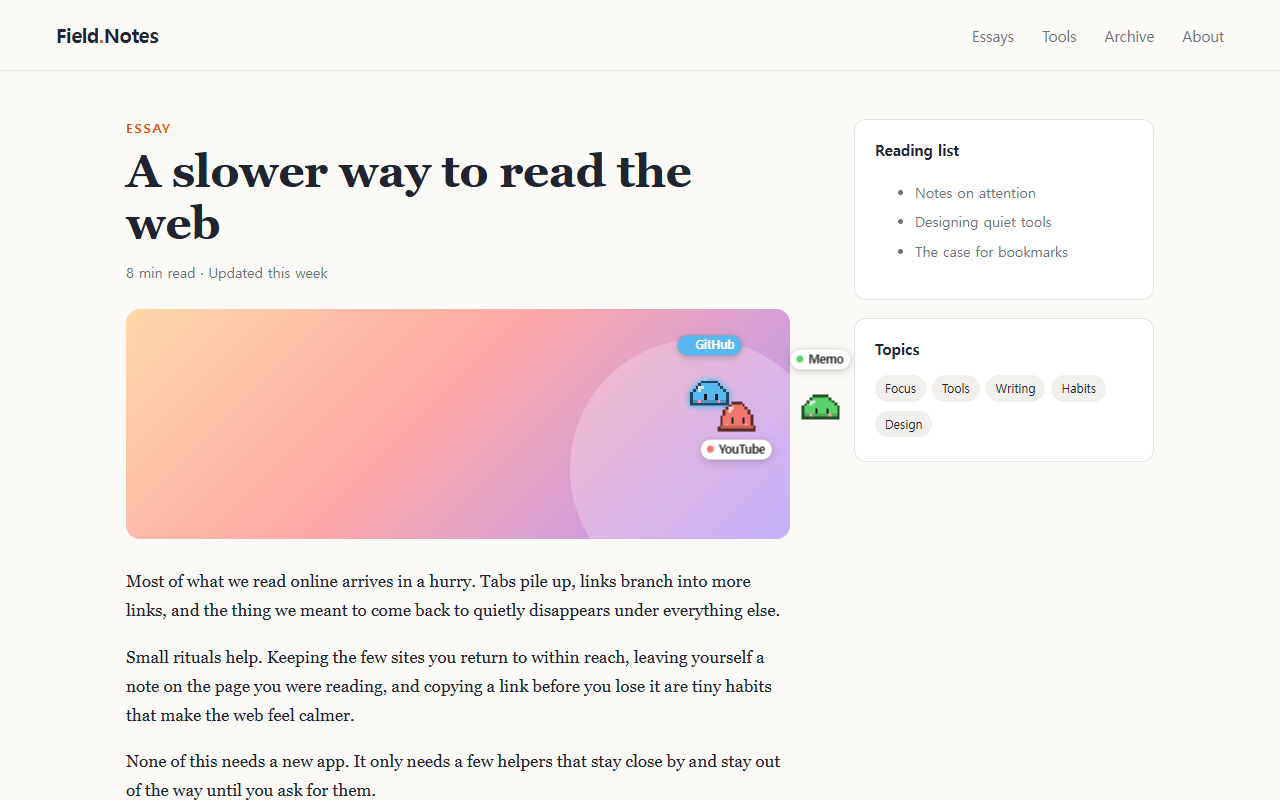
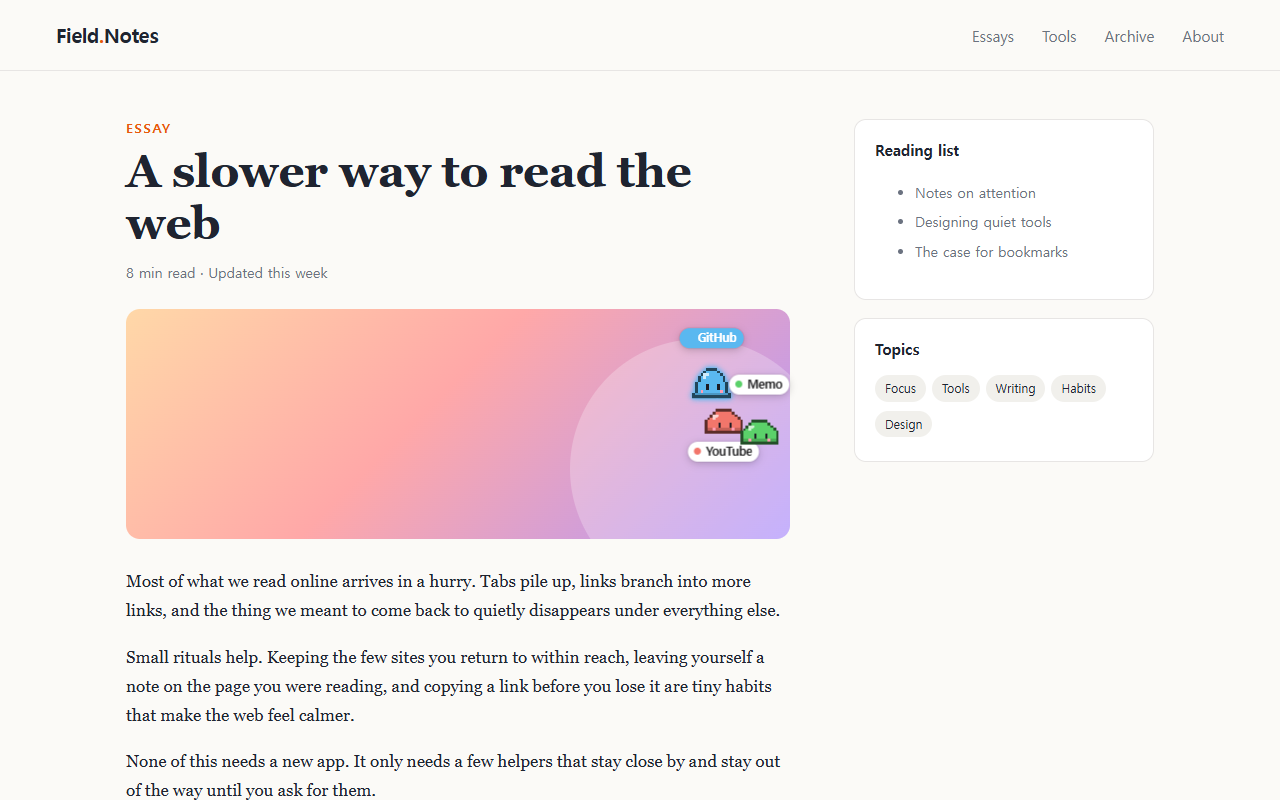
feat: 내 이미지·GIF 기능 끄기(CUSTOM_IMAGES 플래그), unlimitedStorage 권한 제거
코드는 남겨 두고 설정 창의 스킨 카드와 업로드 칸만 숨긴다.
예전에 image 스킨을 고른 사용자는 슬라임으로 보인다. 스토어 문서도 맞춤.

Changed region(s): [[0.5312, 0.4062, 0.6562, 0.5938]]

diff --git a/src/pages/options/Options.tsx b/src/pages/options/Options.tsx
@@ -1,6 +1,6 @@
 // 설정 창. 툴바 아이콘을 누르면 별도 창(540×720)으로 열린다. 바꾸면 바로 저장되고 열린 탭의 펫에도 반영된다.
 import { useEffect, useState } from "react";
-import { HINT_SEEN_KEY, reorderImages, saveImage, type LangPref, type MenuItem, type MenuKey, type Settings, type ThemePref } from "@src/shared/settings";
+import { CUSTOM_IMAGES, HINT_SEEN_KEY, reorderImages, saveImage, type LangPref, type MenuItem, type MenuKey, type Settings, type ThemePref } from "@src/shared/settings";
 import { resolveLang, type MsgKey } from "@src/shared/i18n";
 import { getSkin } from "@src/shared/skins";
 import { itemName } from "@src/pages/content/actions";
@@ -131,7 +131,8 @@ export default function Options() {
           pixelated={s.imagePixelated}
           t={t}
         />
-        <ImageSlots names={names} images={images} pixelated={s.imagePixelated} active={s.skin === "image"} msg={imgMsg} onFile={onFile} onClear={onClear} onPixelated={(imagePixelated) => update({ imagePixelated })} t={t} />
+        {/* 내 이미지·GIF 올리기: CUSTOM_IMAGES 가 꺼져 있으면 숨김(코드는 유지) */}
+        {CUSTOM_IMAGES && <ImageSlots names={names} images={images} pixelated={s.imagePixelated} active={s.skin === "image"} msg={imgMsg} onFile={onFile} onClear={onClear} onPixelated={(imagePixelated) => update({ imagePixelated })} t={t} />}
         <div className="grid gap-2.5">
           <Range label={t("opt.size")} value={s.size} min={24} max={64} step={2} onChange={(size) => update({ size })} display={s.size + "px"} />
           <Range label={t("opt.opacity")} value={s.opacity} min={0.3} max={1} step={0.05} onChange={(opacity) => update({ opacity })} display={Math.round(s.opacity * 100) + "%"} />

diff --git a/src/shared/settings.ts b/src/shared/settings.ts
@@ -72,6 +72,13 @@ export const COLORS = ["#5AB8F0", "#F2766B", "#5BD16A", "#B48CF2", "#F2B84B", "#
 export const MAX_CREW = 3; // 화면을 덜 가리도록 3마리까지
 export const MAX_IMAGE_BYTES = 2 * 1024 * 1024;
 
+/**
+ * 내 이미지·GIF 스킨(펫마다 그림 올리기) 켜기/끄기.
+ * 지금은 꺼 둔다: 저장 공간 관리가 복잡해져서 첫 출시에서는 뺐다. 코드는 그대로 남아 있어서 true 로 바꾸면 다시 살아난다.
+ * 다시 켤 때는 manifest.config.ts 의 unlimitedStorage 권한, README·store 문서의 GIF 설명도 함께 되살린다.
+ */
+export const CUSTOM_IMAGES = false;
+
 /** 펫마다 올린 이미지(chrome.storage.local, 펫 순서와 같은 번호). skinImage 는 v0.4 이전 키 */
 export const IMAGE_KEYS = Array.from({ length: MAX_CREW }, (_, i) => "skinImage" + i);
 const LEGACY_IMAGE_KEY = "skinImage";
@@ -83,6 +90,8 @@ export async function loadSettings(): Promise<Settings> {
   if (!MENU_KEYS.includes(s.menuKey)) s.menuKey = DEFAULTS.menuKey;
   // 예전(최대 6마리)에 더 많이 저장해 둔 경우 설정 창에서도 3마리까지만 보이게
   if (Array.isArray(s.crew) && s.crew.length > MAX_CREW) s.crew = s.crew.slice(0, MAX_CREW);
+  // 내 이미지 스킨을 꺼 둔 동안은 예전에 골라 둔 사람도 슬라임으로(올려 둔 그림은 지우지 않음)
+  if (!CUSTOM_IMAGES && s.skin === "image") s.skin = DEFAULTS.skin;
   return s;
 }
 

diff --git a/src/pages/options/components/SkinPicker.tsx b/src/pages/options/components/SkinPicker.tsx
@@ -1,7 +1,7 @@
 // 스킨 카드(움직이는 미리보기 포함)
 import { useEffect, useRef } from "react";
 import { SKINS, SKIN_IDS } from "@src/shared/skins";
-import type { SkinId } from "@src/shared/settings";
+import { CUSTOM_IMAGES, type SkinId } from "@src/shared/settings";
 import type { T } from "@src/shared/i18n";
 
 function Preview({ id, color, image, pixelated }: { id: SkinId; color: string; image: string | null; pixelated: boolean }) {
@@ -35,8 +35,9 @@ function Preview({ id, color, image, pixelated }: { id: SkinId; color: string; i
 
 export function SkinPicker({ value, onChange, color, image, pixelated, t }: { value: SkinId; onChange: (id: SkinId) => void; color: string; image: string | null; pixelated: boolean; t: T }) {
   return (
-    <div role="radiogroup" aria-label={t("opt.look")} className="mb-3 grid grid-cols-3 gap-2">
-      {SKIN_IDS.map((id) => {
+    <div role="radiogroup" aria-label={t("opt.look")} className={`mb-3 grid gap-2 ${CUSTOM_IMAGES ? "grid-cols-3" : "grid-cols-2"}`}>
+      {/* 내 이미지 스킨은 CUSTOM_IMAGES 가 꺼져 있으면 숨긴다 */}
+      {SKIN_IDS.filter((id) => CUSTOM_IMAGES || !SKINS[id].needsImage).map((id) => {
         const skin = SKINS[id];
         const on = value === id;
         return (

diff --git a/manifest.config.ts b/manifest.config.ts
@@ -8,8 +8,8 @@ export default defineManifest({
   description: "__MSG_extDescription__",
   default_locale: "en",
   version: pkg.version,
-  // unlimitedStorage: 큰 GIF 를 여러 장 넣어도 저장 한도에 걸리지 않게(설치 때 경고 없음)
-  permissions: ["storage", "unlimitedStorage"],
+  // 내 이미지·GIF 기능(CUSTOM_IMAGES)을 다시 켜면 "unlimitedStorage" 도 다시 넣는다(큰 GIF 여러 장 저장용)
+  permissions: ["storage"],
   background: { service_worker: "src/pages/background/index.ts", type: "module" },
   content_scripts: [
     {

diff --git a/README.md b/README.md
@@ -94,14 +94,16 @@ pnpm build
 
 - **쓰는 법**: 누르고 있을 키(Alt · Ctrl · Shift · Alt+Shift), 처음 안내 다시 보기
 - **펫과 기능**: 한 줄이 펫 한 마리(최대 3마리). 펫 색 · 이름표 · 기능 · 링크 주소, 순서 바꾸기, 추가·삭제
-- **모양**: 스킨(슬라임 · 커서 · 내 이미지·GIF, 움직이는 미리보기), 크기(24~64px), 평소 투명도
-- **내 이미지·GIF로 바꾸기**: 펫마다 칸이 하나씩 있어요. 파일을 칸에 끌어다 놓거나 클릭해서 고르면 바로 그 그림으로 바뀝니다(스킨도 자동으로 '내 이미지·GIF'로). 자세한 건 아래 [내 GIF로 바꾸기](#내-gif로-바꾸기).
+- **모양**: 스킨(슬라임 · 커서, 움직이는 미리보기), 크기(24~64px), 평소 투명도
+- ~~**내 이미지·GIF로 바꾸기**~~: 지금은 꺼 둠. 아래 [내 GIF로 바꾸기 (꺼 둠)](#내-gif로-바꾸기-꺼-둠) 참고.
 - **화면·언어**: 테마(시스템·라이트·다크), 언어(자동·한국어·English)
 - 펫을 띄우지 않을 사이트, 저장된 메모 목록
 
-설정은 `chrome.storage.sync`에, 메모와 올린 이미지는 `chrome.storage.local`에 저장됩니다. 바꾸면 열려 있는 탭에도 바로 반영됩니다.
+설정은 `chrome.storage.sync`에, 메모는 `chrome.storage.local`에 저장됩니다. 바꾸면 열려 있는 탭에도 바로 반영됩니다.
 
-## 내 GIF로 바꾸기
+## 내 GIF로 바꾸기 (꺼 둠)
+
+> 첫 출시에서는 이 기능을 뺐습니다(저장 공간 관리가 복잡해져서). 코드는 그대로 있고, `src/shared/settings.ts`의 `CUSTOM_IMAGES`를 `true`로 바꾸고 `manifest.config.ts` 권한에 `unlimitedStorage`를 다시 넣으면 살아납니다. 아래는 켰을 때의 동작입니다.
 
 1. 툴바 아이콘 → 설정 창 → **모양** 아래 **내 이미지·GIF로 바꾸기** 칸에 GIF를 끌어다 놓습니다(클릭해서 골라도 됨).
 2. 끝. 열려 있는 탭의 펫이 바로 그 GIF로 바뀌고, GIF 그대로 움직입니다.
@@ -120,7 +122,7 @@ pnpm build
 | --- | --- |
 | `slime` (기본) | 코드로 그린 16×16 도트 슬라임. 걸을 때 눌림→늘어남→공중→착지 4프레임으로 통통, 쉴 때 숨쉬기 2프레임과 깜빡임, 움직이는 방향으로 눈이 돌아감. 펫 색으로 자동 채색 |
 | `cursor` | 멀티플레이어 화살표 커서 |
-| `image` | 설정 창에서 올린 그림·GIF(펫마다 한 장, 움직이는 GIF는 그대로). 걸을 때 통통 튀고 진행 방향으로 살짝 기울어짐 |
+| `image` | (꺼 둠, `CUSTOM_IMAGES`) 설정 창에서 올린 그림·GIF(펫마다 한 장, 움직이는 GIF는 그대로). 걸을 때 통통 튀고 진행 방향으로 살짝 기울어짐 |
 
 새 스킨 만들기: `src/shared/skins.ts`의 `SKINS`에 하나 넣고, `src/shared/i18n.ts` 사전(ko·en)에 `skin.<id>` 이름을 더합니다. 설정 창 스킨 목록에 자동으로 나타납니다.
 
@@ -151,7 +153,7 @@ const ghost: Skin = {
 
 | 경로 | 내용 |
 | --- | --- |
-| `manifest.config.ts` | MV3 manifest(crxjs). 권한은 `storage`·`unlimitedStorage`, 모든 http(s) 페이지에 콘텐츠 스크립트 |
+| `manifest.config.ts` | MV3 manifest(crxjs). 권한은 `storage`, 모든 http(s) 페이지에 콘텐츠 스크립트 |
 | `vite.config.ts` | 빌드 설정(`dist/`), 설정 창 페이지 입력 |
 | `src/shared/settings.ts` | 설정 모양·기본값·저장 도우미 |
 | `src/shared/i18n.ts` | UI 문자열 사전(ko/en)과 `t()` |
@@ -168,4 +170,4 @@ const ghost: Skin = {
 
 - 크롬이 확장을 막는 페이지(`chrome://`, 웹 스토어, PDF 뷰어)에선 나타나지 않습니다.
 - iframe 안(예: 임베드된 에디터)에서는 마우스 이동이 최상위 페이지로 전달되지 않아, 그 위에 있는 동안은 펫이 멈춰 있습니다.
-- 모든 사이트에 콘텐츠 스크립트를 넣기 때문에 설치 시 "모든 웹사이트의 데이터 읽기 및 변경" 권한 안내가 뜹니다. 페이지 내용을 읽거나 밖으로 보내는 코드는 없습니다(메모·이미지만 로컬에 저장).
+- 모든 사이트에 콘텐츠 스크립트를 넣기 때문에 설치 시 "모든 웹사이트의 데이터 읽기 및 변경" 권한 안내가 뜹니다. 페이지 내용을 읽거나 밖으로 보내는 코드는 없습니다(설정·메모만 브라우저에 저장).

diff --git a/store/PRIVACY.md b/store/PRIVACY.md
@@ -12,7 +12,6 @@ Cursor Crew(이하 "확장")는 사용자의 개인정보를 수집하거나 외
 | --- | --- | --- |
 | 설정(켜기/끄기, 펫 개수·크기·색·스킨, 메뉴 키, 언어, 테마, 펫별 링크 주소와 이름) | `chrome.storage.sync` | 설정 유지. 크롬 동기화를 켠 경우 사용자의 다른 크롬 기기와 Google 계정을 통해 동기화됩니다. 이 동기화는 크롬이 처리하며, 개발자는 이 데이터에 접근할 수 없습니다. |
 | 페이지 메모(메모 내용, 그 페이지의 주소와 제목, 수정 시각) | `chrome.storage.local` | 사용자가 직접 쓴 메모를 그 페이지에서 다시 보여 주기 위해 |
-| 사용자가 올린 펫 이미지(GIF·PNG 등) | `chrome.storage.local` | 펫 모양으로 표시하기 위해 |
 | 첫 안내를 봤는지 여부 | `chrome.storage.local` | 안내를 한 번만 보여 주기 위해 |
 
 **하지 않는 것**
@@ -23,7 +22,7 @@ Cursor Crew(이하 "확장")는 사용자의 개인정보를 수집하거나 외
 
 **클립보드:** "URL 복사" 기능을 사용자가 실행했을 때만 현재 페이지 주소를 클립보드에 씁니다. 클립보드를 읽지는 않습니다.
 
-**삭제:** 설정 창에서 메모와 이미지를 지울 수 있습니다. 확장을 삭제하면 저장된 모든 데이터가 함께 삭제됩니다.
+**삭제:** 설정 창에서 메모를 지울 수 있습니다. 확장을 삭제하면 저장된 모든 데이터가 함께 삭제됩니다.
 
 **문의:** <!-- TODO(사용자): 연락처 이메일 또는 GitHub 이슈 주소 -->
 
@@ -37,7 +36,6 @@ Cursor Crew ("the extension") does not collect or transmit any personal data.
 | --- | --- | --- |
 | Settings (on/off, pet count, size, colors and skin, menu key, language, theme, each pet's link URL and name) | `chrome.storage.sync` | To keep your settings. If Chrome Sync is on, Chrome syncs them across your Chrome devices through your Google account. Chrome handles this sync, and the developer has no access to the data. |
 | Page memos (memo text, that page's URL and title, last edit time) | `chrome.storage.local` | To show the memo you wrote on that page again |
-| Pet images you upload (GIF, PNG, etc.) | `chrome.storage.local` | To display them as your pets |
 | Whether you've seen the first-run hint | `chrome.storage.local` | To show the hint only once |
 
 **What it does not do**
@@ -48,6 +46,6 @@ Cursor Crew ("the extension") does not collect or transmit any personal data.
 
 **Clipboard:** It writes the current page URL to the clipboard only when you run "Copy URL". It never reads the clipboard.
 
-**Deletion:** You can delete memos and images in the settings window. Removing the extension deletes all of its stored data.
+**Deletion:** You can delete memos in the settings window. Removing the extension deletes all of its stored data.
 
 **Contact:** <!-- TODO(owner): contact email or GitHub issues URL -->

diff --git a/store/LISTING.md b/store/LISTING.md
@@ -34,7 +34,7 @@
 
 ■ 내 마음대로 꾸미기
 • 펫 최대 3마리(펫 하나에 기능 하나), 크기, 투명도, 색
-• 모양: 도트 슬라임, 커서, 또는 내 GIF·이미지 (펫마다 다르게, 끌어다 놓기)
+• 모양: 도트 슬라임 또는 커서
 • 메뉴 키: Alt / Ctrl / Shift / Alt+Shift
 • 다크 모드, 한국어 / English
 
@@ -62,7 +62,7 @@ Each pet holds one shortcut: hold Alt and click a pet to run it.
 
 ■ Make them yours
 • Up to 3 pets (one shortcut each), size, opacity, colors
-• Look: pixel slime, cursor, or your own GIF or image (one per pet, drag and drop)
+• Look: pixel slime or cursor
 • Menu key: Alt / Ctrl / Shift / Alt+Shift
 • Dark mode, Korean / English
 
@@ -111,10 +111,9 @@ Shows small pixel pets that follow the mouse cursor and act as user-configured s
 Saves the user's settings (pet count, size, colors, skin, menu key, language, theme and each pet's link) and the page memos the user writes. Nothing is sent off the device.
 ```
 
-**unlimitedStorage**
-```
+<!-- unlimitedStorage: 내 이미지·GIF 기능(CUSTOM_IMAGES)을 다시 켤 때 권한과 함께 되살린다.
 Users can upload their own animated GIFs as pet images (one per pet). These are stored locally as data URLs and can exceed the default 10 MB chrome.storage.local quota.
-```
+-->
 
 **호스트 권한 (content script on `http://*/*`, `https://*/*`, `file:///*`)**
 ```
